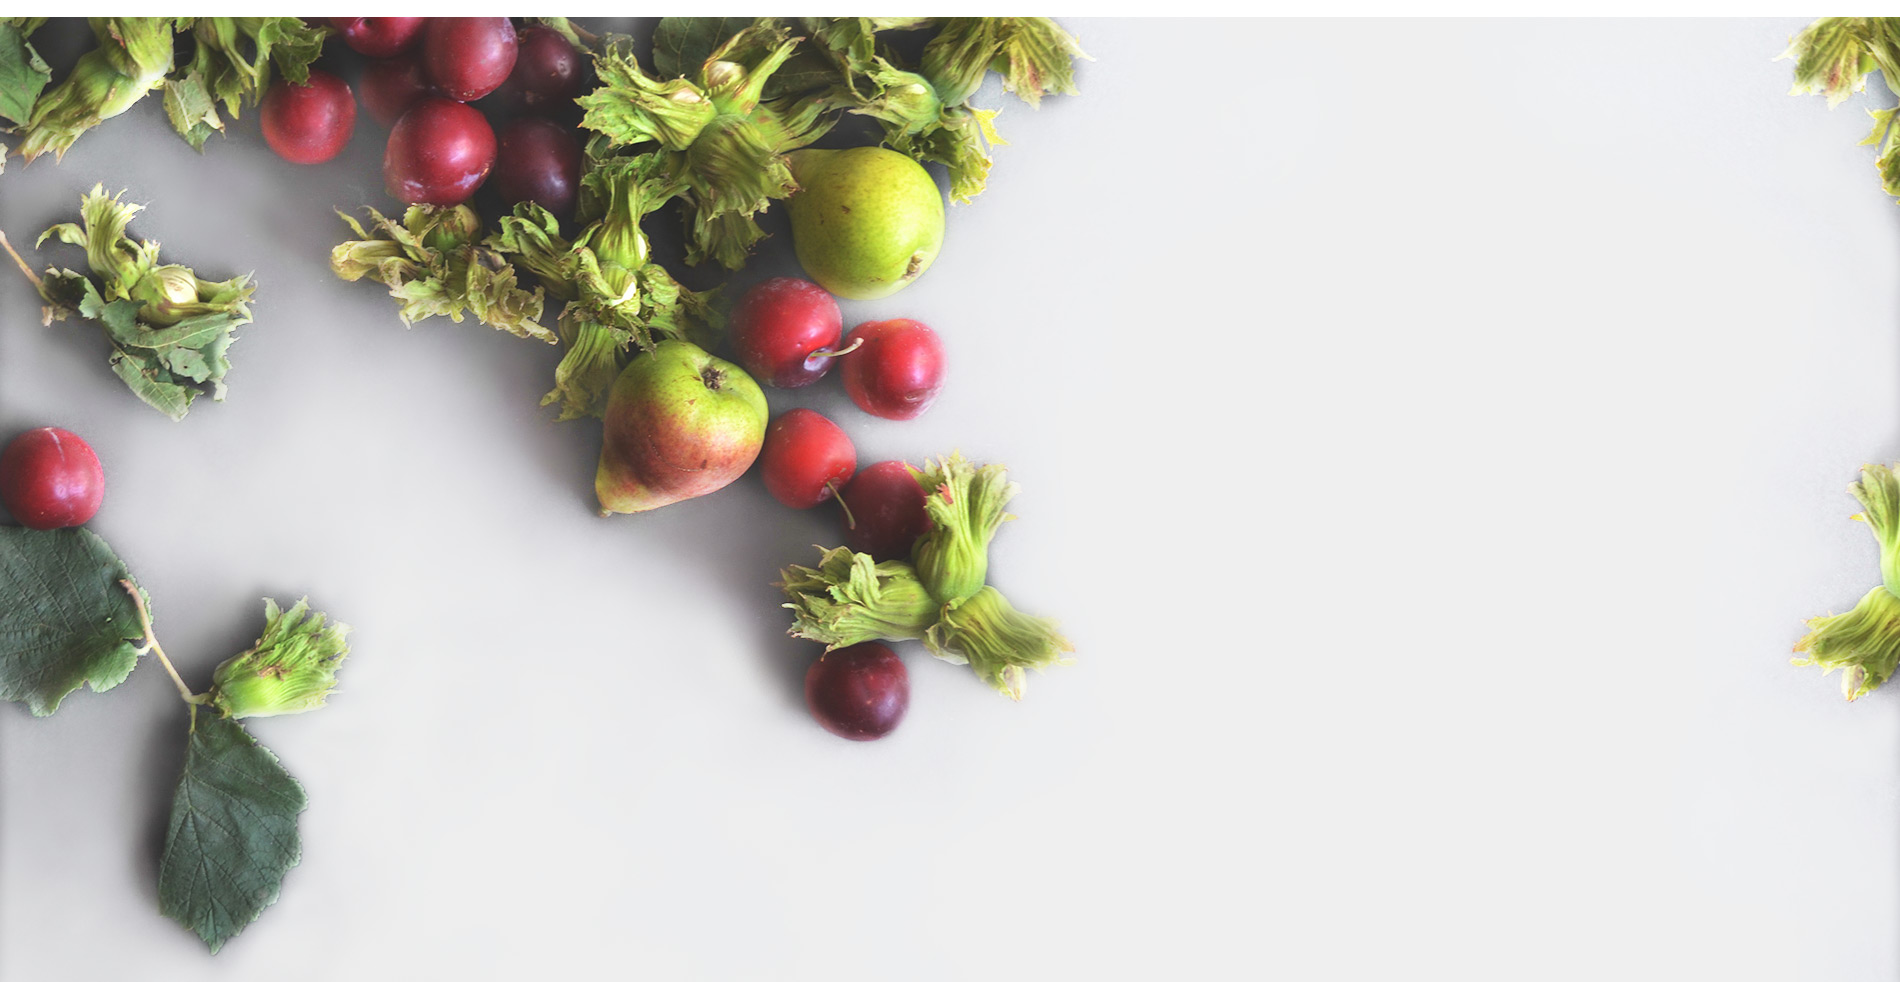
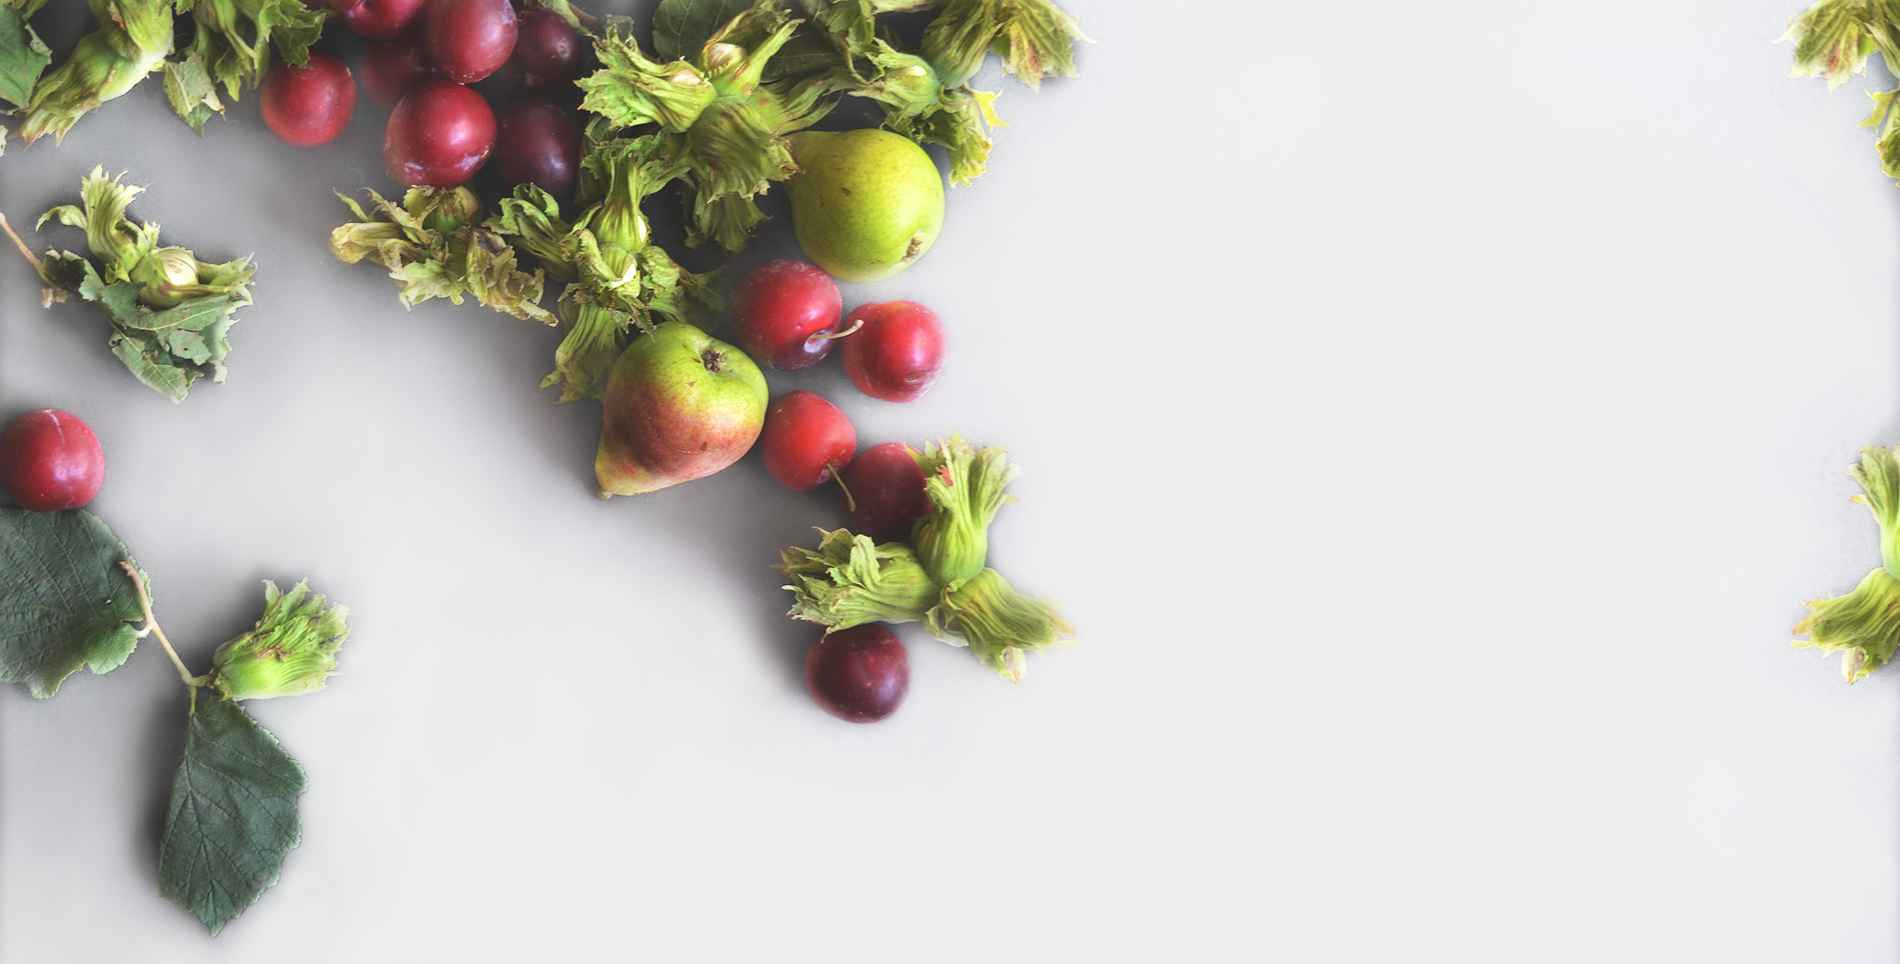
start css - contact

diff --git a/style.css b/style.css
@@ -19,14 +19,12 @@ body {
 /******* Header *******/
 
 #header {
+    background-color: #eeefef;
     background-image: url("./images/header/hero.jpg");
     background-size: cover;
     background-repeat: no-repeat;
-    min-height: 100%;
-    min-width: 1520px;
-    width: 100%;
-    height: 910px;
     padding-top: 55px;
+    padding-bottom: 370px;
 }
 
 .header__menu {
@@ -155,13 +153,13 @@ body {
 
 .about {
     padding: 210px 0 160px 0;
-    position: relative;
     background-color: #eeefef;
 }
 
 .about__title {
     width: 635px;
     text-align: center;
+    position: relative;
 }
 
 .about__title h2 {
@@ -192,8 +190,8 @@ body {
 
 .about__image {
     position: absolute;
-    top: 40px;
-    right: 5px;
+    top: -190px;
+    left: 700px;
 }
 
 
@@ -201,3 +199,43 @@ body {
 
 
 /******* Contacts *******/
+
+.contact {
+    padding-top: 60px;
+    background-color: #eeefef;
+    background-image: url('./images/contact/contact-background.jpg');
+    background-repeat: no-repeat;
+    background-size: cover;
+}
+
+.contact__wrapper {
+    width: 570px;
+}
+
+.contact__title {
+    text-align: center;
+}
+
+.contact__title h2 {
+    margin: 0;
+    font-size: 40px;
+    font-weight: 100;
+    line-height: 55px;
+}
+
+.contact h4 {
+    font-size: 18px;
+    text-transform: uppercase;
+}
+
+.contact__form input {
+    font-size: 18px;
+    background-color: transparent;
+}
+
+.contact__form input[type="text"],
+.contact__form input[type="email"] {
+    font-style: italic;
+    border: none;
+    border-bottom: 1px solid var(--main-color);
+}

diff --git a/index.html b/index.html
@@ -132,17 +132,18 @@
                 <img src="./images/header/decoration.png" alt="decoration" class="decoration">
                 <p>Nori grape silver beet broccoli kombu beet greens fave bean potato quandong celery. Bunya nuts balck-eyed pea prairie turnip leek lentil turnip greens parship.</p>
                 <img src="./images/about/about-sign.png" alt="sign" class="about__sign">
+                <div class="about__image">
+                    <img src="./images/about/about-food.png" alt="food">
+                </div>
             </div>
-            <div class="about__image">
-                <img src="./images/about/about-food.png" alt="food">
-            </div>
+
         </div>
     </div>
     <!-- Menu -->
 
     <!-- Contacts -->
-    <div class="contact">
-        <div class="wrapper">
+    <div class="contact" id="contact">
+        <div class="contact__wrapper">
             <div class="contact__title">
                 <h2>Contact</h2>
                 <img src="./images/header/decoration.png" alt="decoration">
